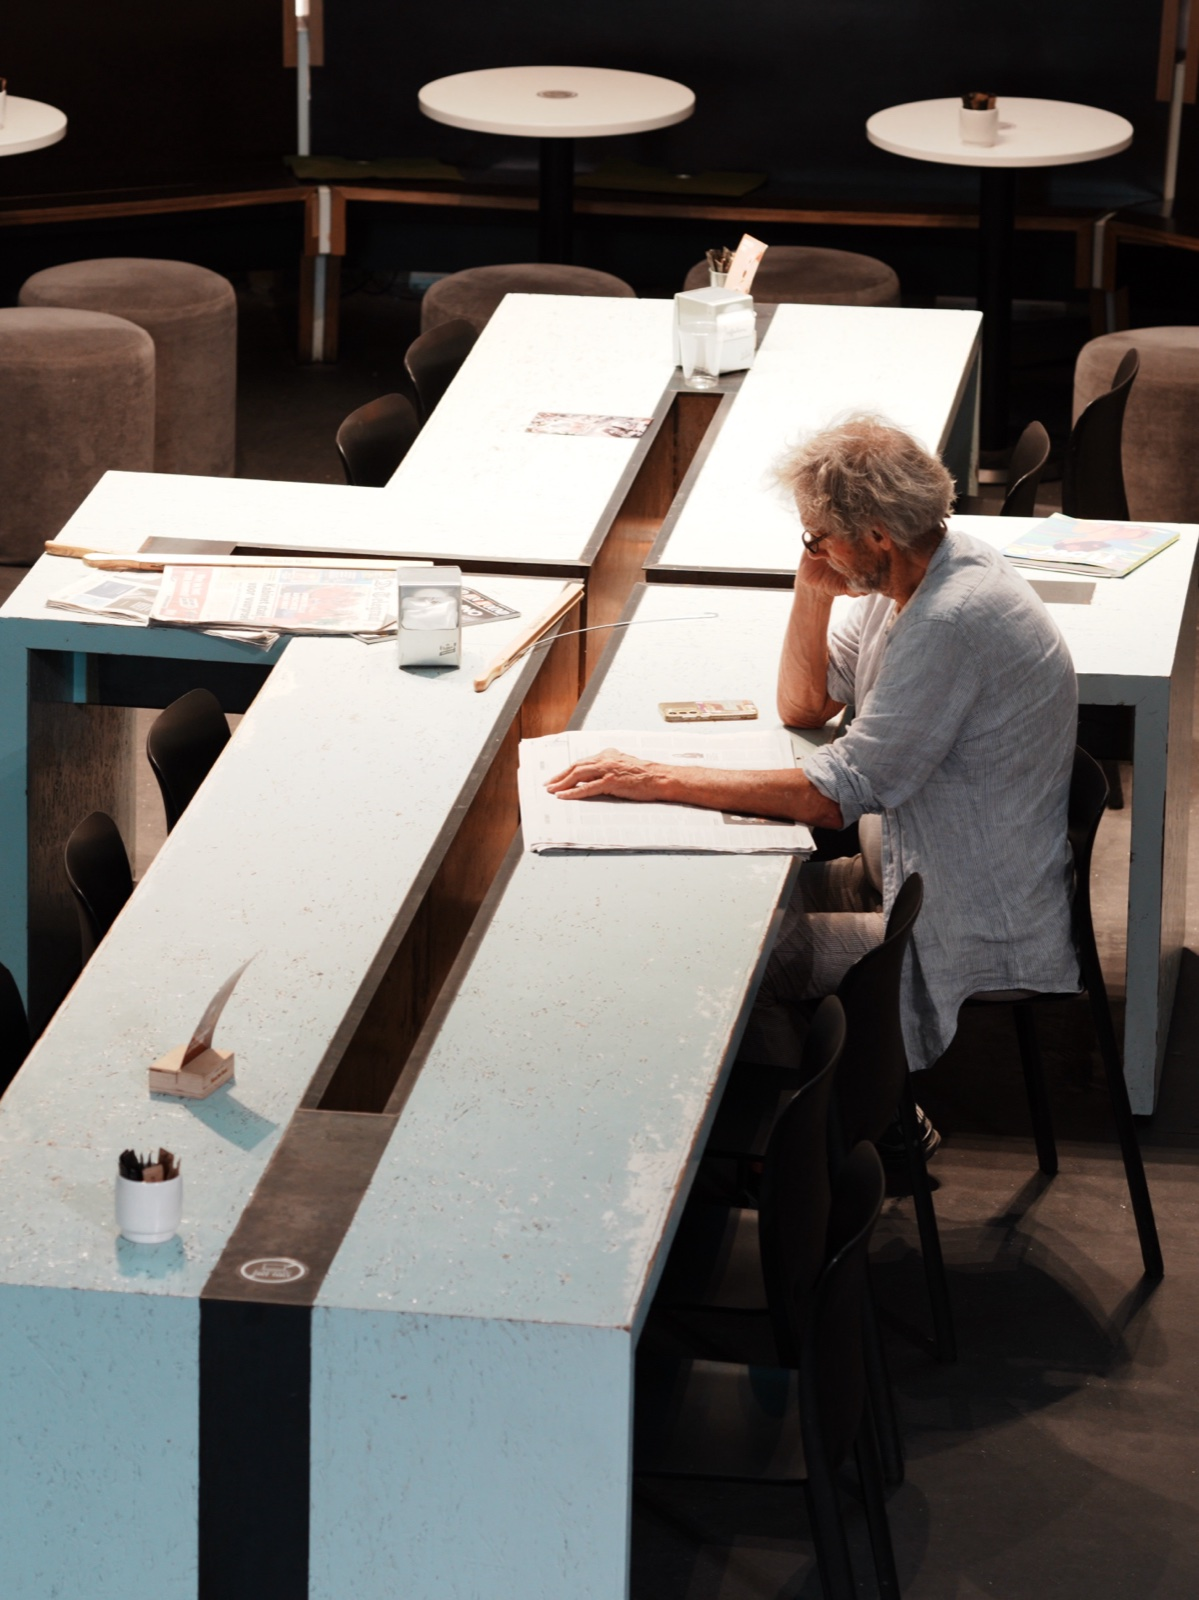
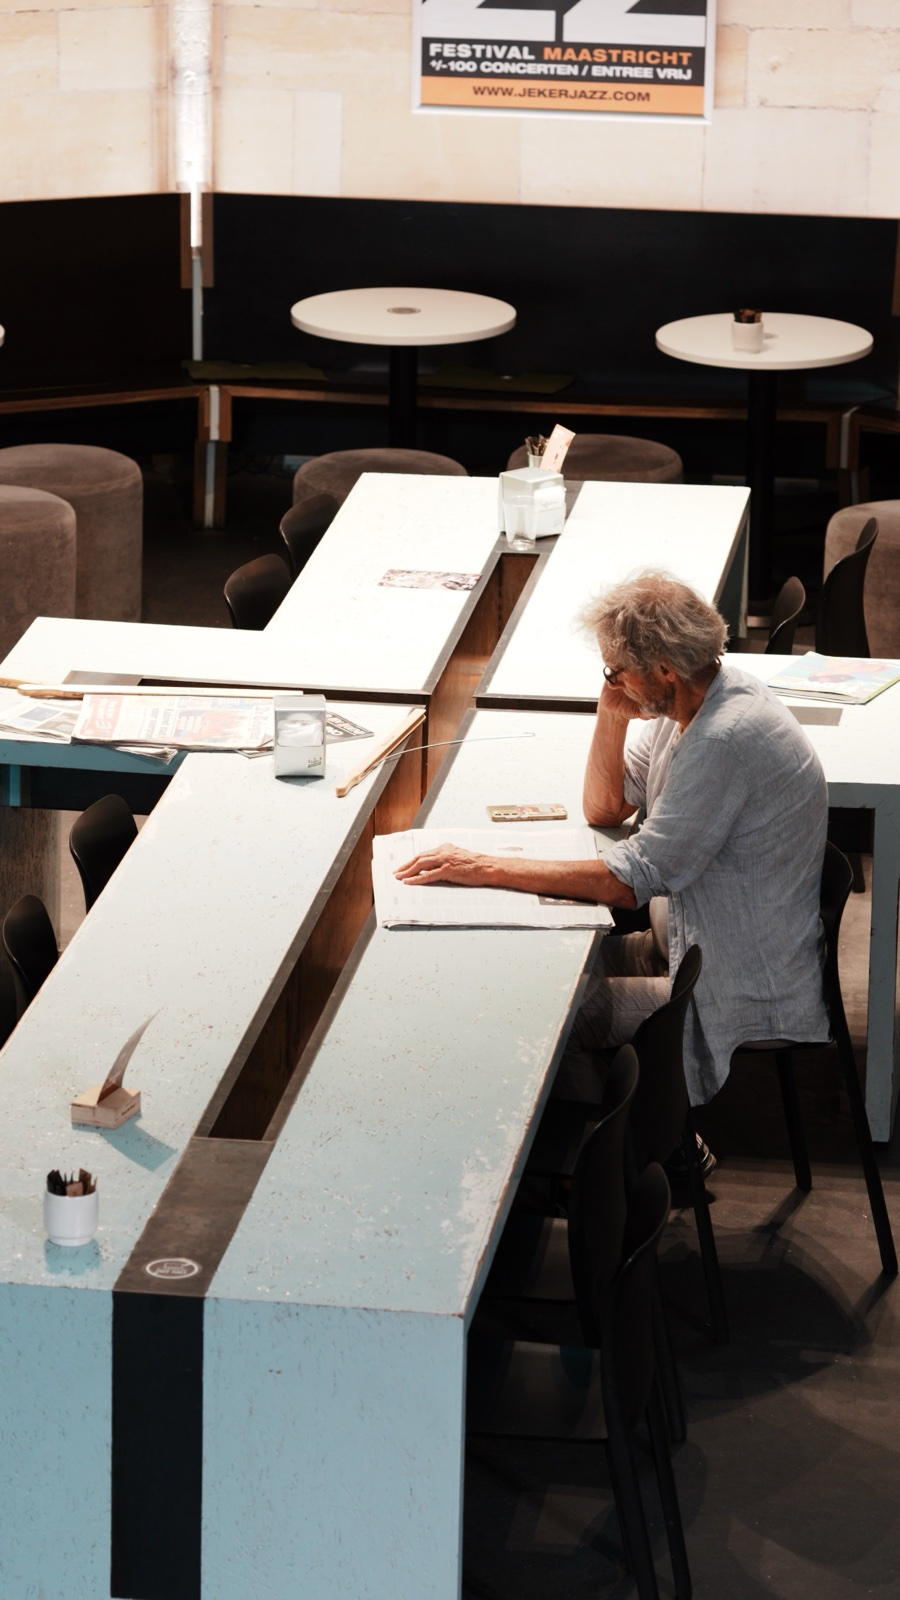
Maastricht post: TOC on, replace photo 25, wide galleries above grid line

diff --git a/assets/css/main.css b/assets/css/main.css
@@ -386,6 +386,8 @@ body {
 .gallery.cols-3 { grid-template-columns: repeat(3, 1fr); }
 .gallery.cols-4 { grid-template-columns: repeat(4, 1fr); }
 .prose .gallery.wide { margin-right: -180px; }
+/* wide elements sit above the notes-column grid line */
+.prose figure.wide, .prose .gallery.wide { position: relative; z-index: 1; }
 .gallery figcaption, .gallery .gallery-caption {
   grid-column: 1 / -1;
   font-family: var(--font-mono);

diff --git a/content/posts/maastricht-bookstore-church/index.md b/content/posts/maastricht-bookstore-church/index.md
@@ -5,7 +5,7 @@ date: 2026-09-03
 draft: false
 tags: ["travel", "maastricht", "bookstore", "photo"]
 summary: "一座 13 世纪的多米尼加教堂，做过马厩、仓库、拳击场、自行车库，2006 年起变成书店。"
-showTableOfContents: false
+showTableOfContents: true
 showComments: true
 ---
 
